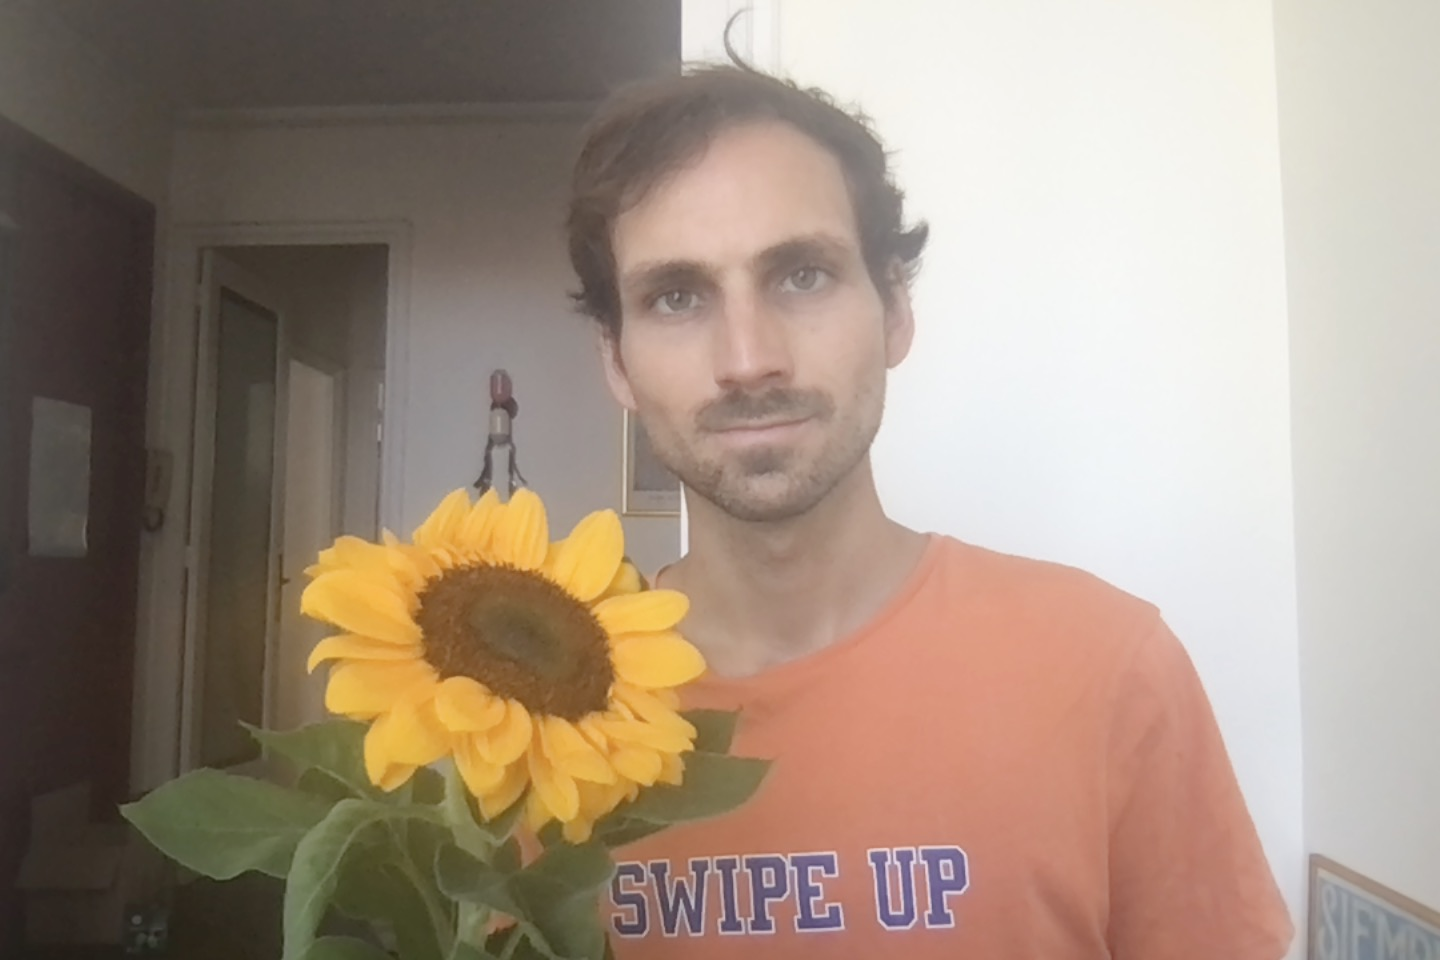
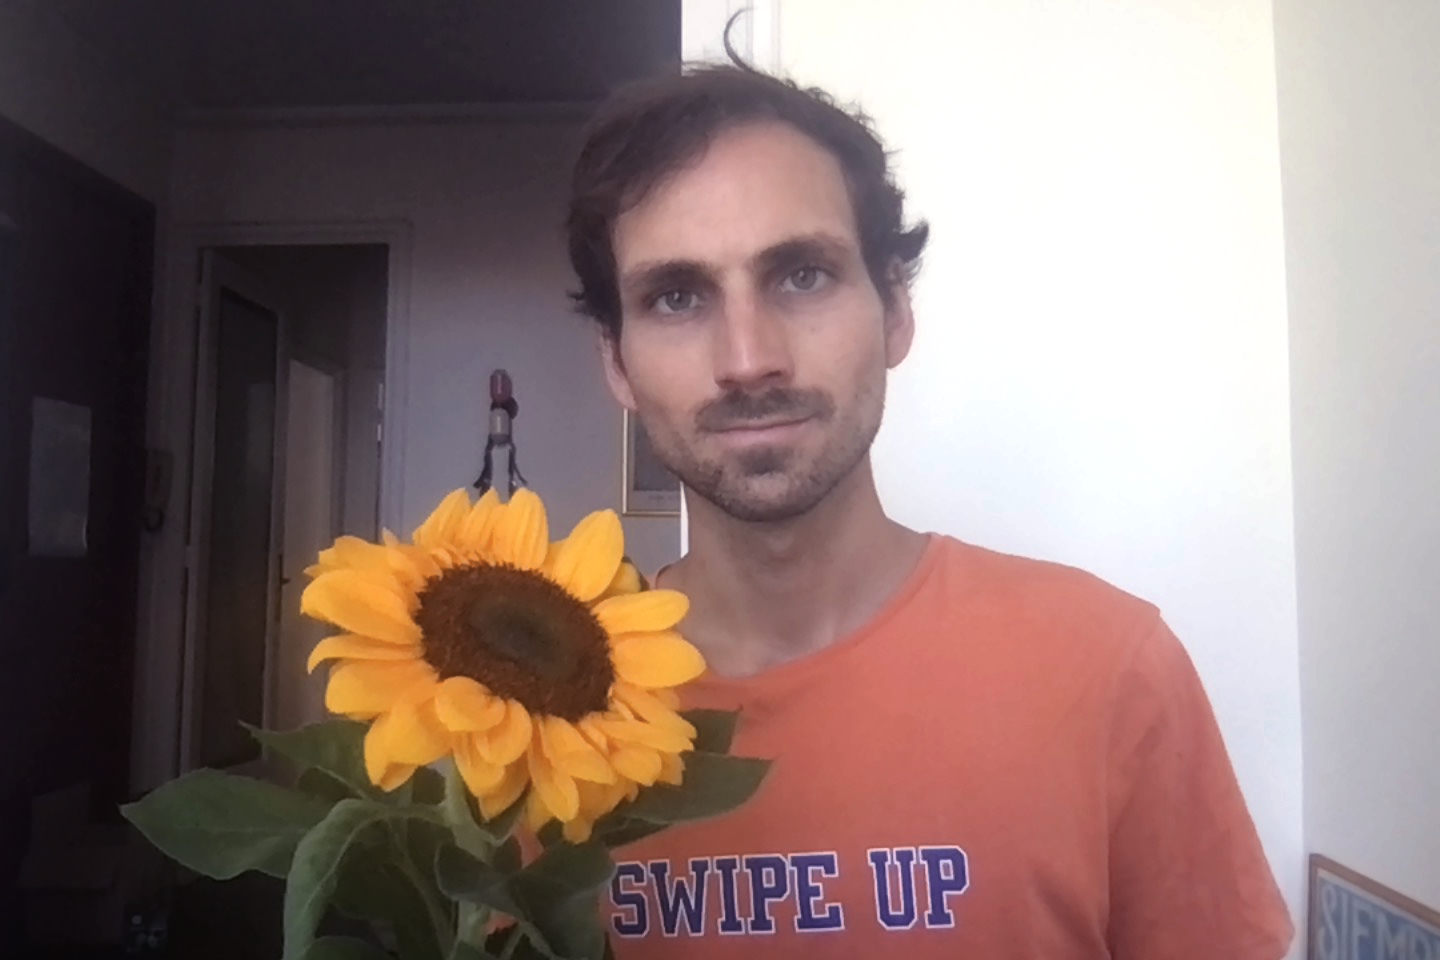
[front] about: add Anne and Matteo to the team

diff --git a/frontend/src/pages/about/About.tsx b/frontend/src/pages/about/About.tsx
@@ -34,11 +34,15 @@ const useStyles = makeStyles(() => ({
     display: 'flex',
     justifyContent: 'center',
     padding: 8,
+    '& > a': {
+      flex: 1,
+    },
   },
   card: {
     border: '1px solid #DCD8CB',
     padding: '24px',
     background: '#FFFFFF',
+    width: '100%',
   },
 }));
 
@@ -55,7 +59,7 @@ const CoreTeamCard = ({
   institution?: string;
   role?: string;
   title?: string;
-  job: string;
+  job: React.ReactNode;
 }) => {
   return (
     <Card sx={{ maxWidth: 320, fontSize: '0.9rem' }}>
@@ -68,6 +72,7 @@ const CoreTeamCard = ({
             objectFit: 'cover',
             borderRadius: '50%',
             marginBottom: '8px',
+            filter: 'drop-shadow(1px 3px 3px #bbb)',
           }}
         />
         <Typography variant="h4">{name}</Typography>
@@ -113,7 +118,7 @@ const ContributorCard = ({
           <Grid2
             container
             sx={{
-              alignItems: 'center',
+              alignItems: 'start',
             }}
             size={4}
           >
@@ -124,6 +129,8 @@ const ContributorCard = ({
                 aspectRatio: '1',
                 objectFit: 'cover',
                 borderRadius: '50%',
+                backgroundColor: '#ddd',
+                filter: 'drop-shadow(1px 3px 3px #bbb)',
               }}
             />
           </Grid2>
@@ -312,6 +319,8 @@ const AboutPage = () => {
                 />
               </Grid2>
 
+              <br />
+
               <Grid2
                 size={{
                   xs: 6,
@@ -324,6 +333,26 @@ const AboutPage = () => {
                   role="Executive Director"
                   title="Dr. in Mathematics"
                   job="AI Researcher and Communicator"
+                />
+              </Grid2>
+
+              <Grid2
+                size={{
+                  xs: 6,
+                  sm: 4,
+                }}
+              >
+                <CoreTeamCard
+                  name="Anne Alombert"
+                  image="/people/Anne.jpeg"
+                  institution="Université Paris 8"
+                  job={
+                    <>
+                      Philosopher
+                      <br />
+                      Maîtresse de conférences
+                    </>
+                  }
                 />
               </Grid2>
 
@@ -352,6 +381,20 @@ const AboutPage = () => {
                   image="/people/Aidan.jpg"
                   institution="SBB CFF FFS"
                   job="Project Manager"
+                />
+              </Grid2>
+
+              <Grid2
+                size={{
+                  xs: 6,
+                  sm: 4,
+                }}
+              >
+                <CoreTeamCard
+                  name="Matteo Tacchi-Bénard"
+                  image="/people/Matteo.jpeg"
+                  institution="CNRS"
+                  job="Applied Mathematician"
                 />
               </Grid2>
             </Grid2>
